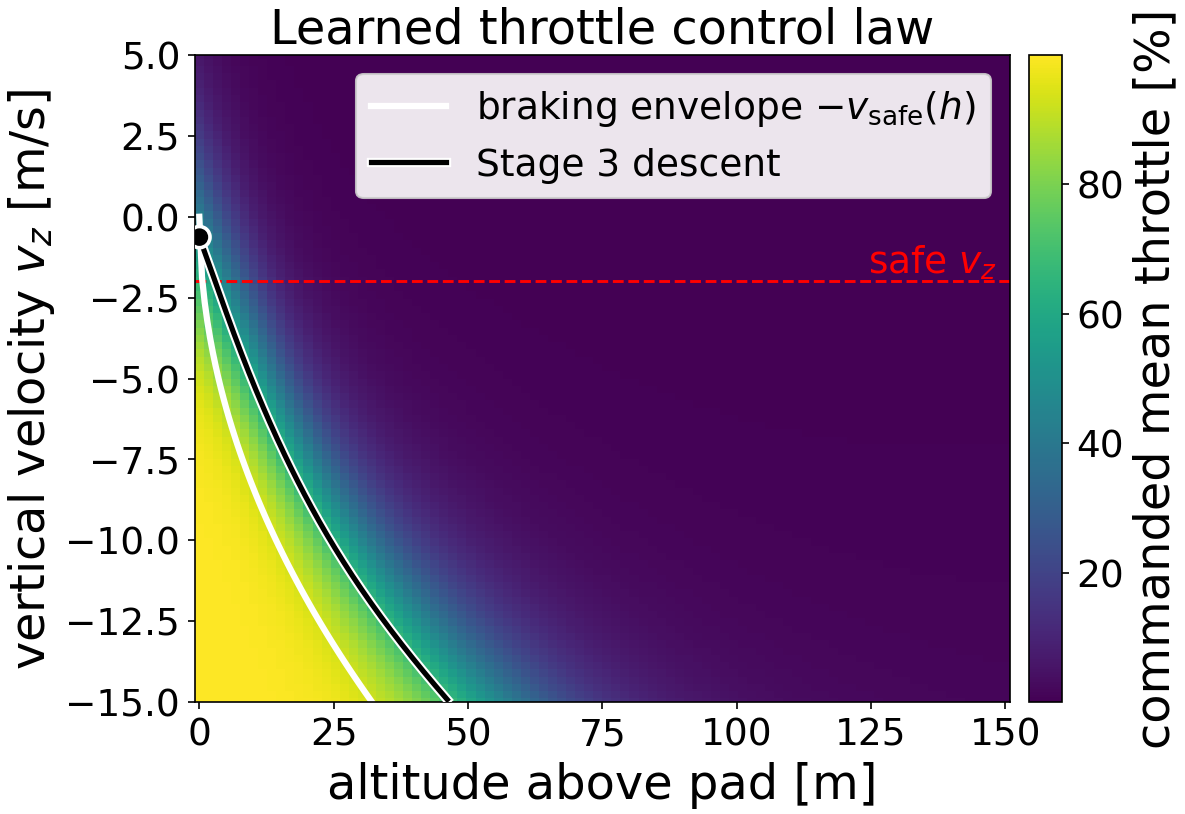
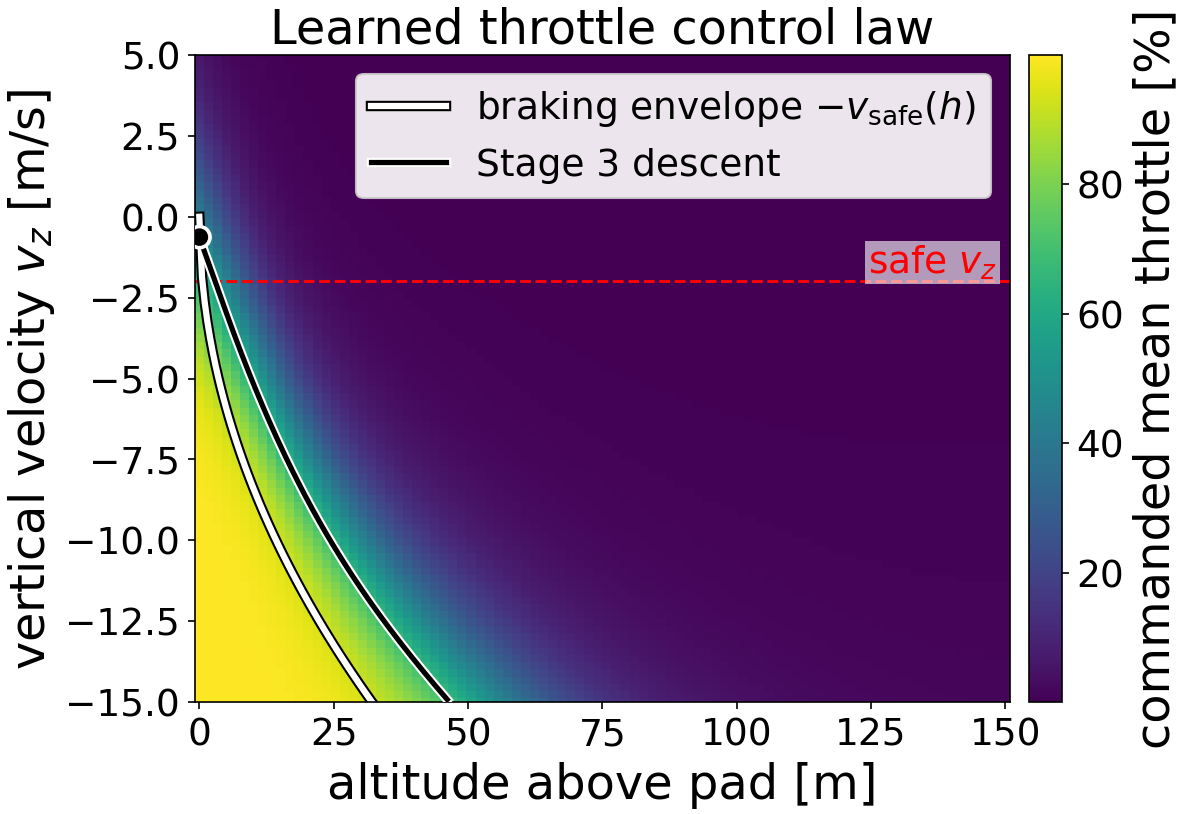
fix

diff --git a/analysis.py b/analysis.py
@@ -8,6 +8,7 @@ matplotlib.use("Agg")
 import matplotlib.pyplot as plt
 from matplotlib.lines import Line2D
 from matplotlib.patches import Ellipse
+import matplotlib.patheffects as pe
 from mpl_toolkits.mplot3d import Axes3D
 import numpy as np
 
@@ -280,16 +281,17 @@ def state_action_map(params, fname="figures/state_action_map.png", alt_max=150.0
     pc = ax.pcolormesh(AA, VV, thr * 100, cmap="viridis", shading="auto")
     ax.axhline(env.SAFE_Z_VELOCITY, color="red", ls="--", lw=1.4)
     ax.text(alt_max * 0.99, env.SAFE_Z_VELOCITY, "safe $v_z$ ", color="red",
-            fontsize=18, va="bottom", ha="right")
-    # overlay the analytical braking envelope -v_safe(h); the learned boundary tracks it
+            fontsize=18, va="bottom", ha="right",
+            bbox=dict(facecolor="white", alpha=0.6, edgecolor="none", pad=1))
+    
     alt_line = np.linspace(0, alt_max, 300)
     v_env = -np.sqrt(2.0 * env.A_BRAKE * alt_line)
     m = v_env >= vzs.min()
     ax.plot(alt_line[m], v_env[m], color="white", lw=3.0,
+            path_effects=[pe.withStroke(linewidth=5, foreground="black")],
             label="braking envelope $-v_{\\mathrm{safe}}(h)$")
     
     if traj is not None:
-        import matplotlib.patheffects as pe
         ta = np.asarray(traj["z"]) - PAD_Z; tv = np.asarray(traj["vz"])
         inb = (ta >= 0) & (ta <= alt_max) & (tv >= vzs.min()) & (tv <= vzs.max())
         stroke = [pe.withStroke(linewidth=4.5, foreground="white")]